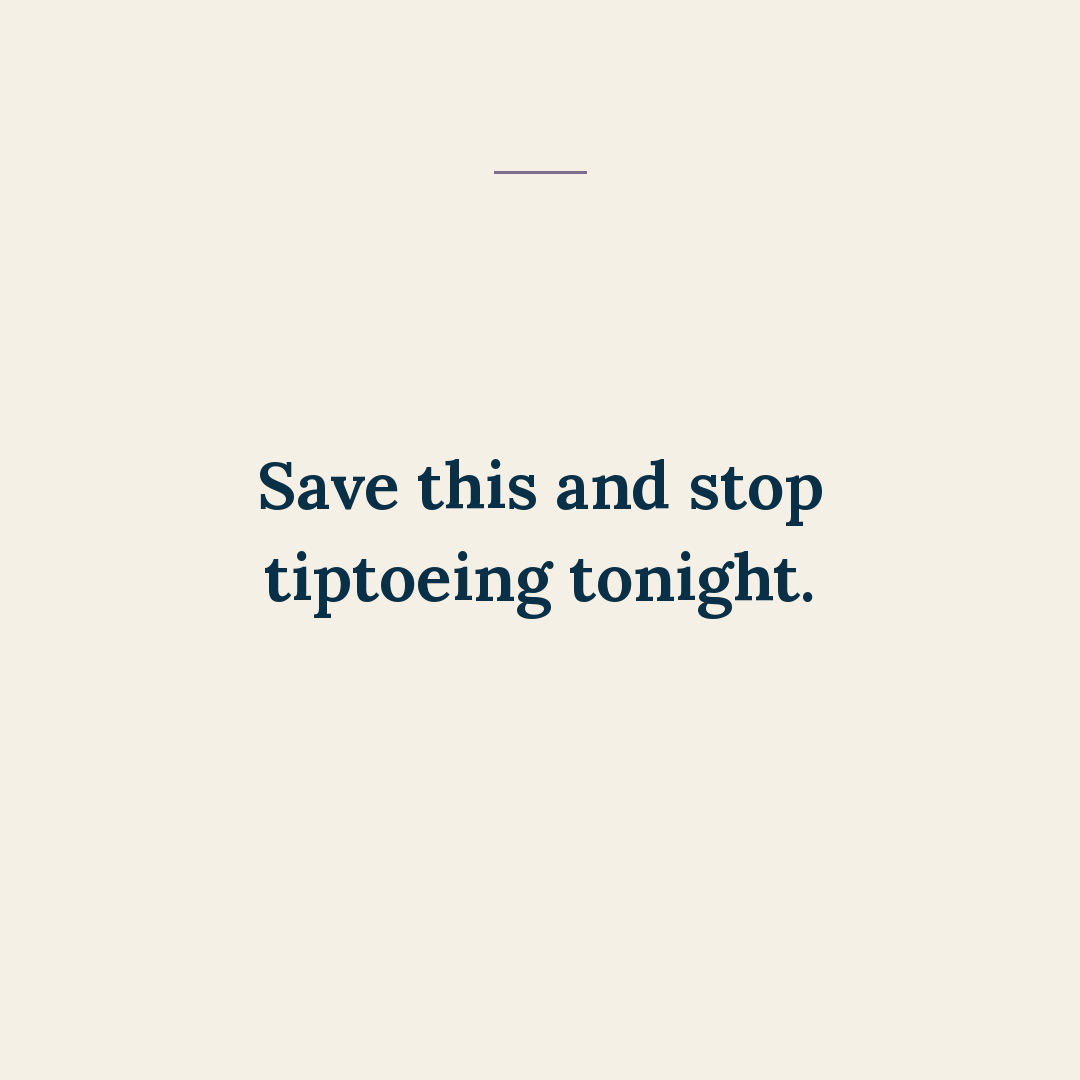
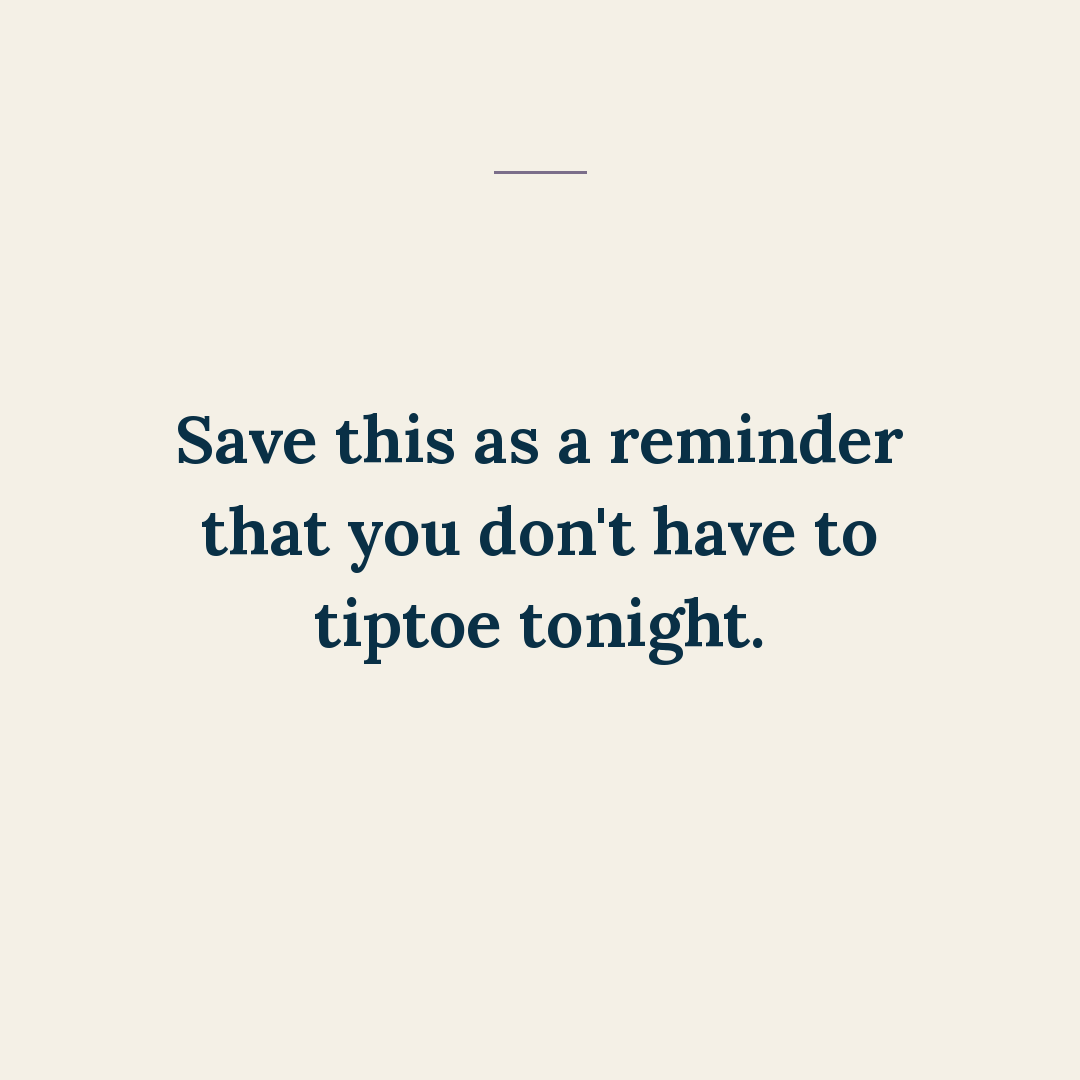
Add 59-dont-have-to-whisper (59 - Dont Have To Whisper)

Changed region(s): [[0.1528, 0.3667, 0.825, 0.6111]]

diff --git a/posts/59-dont-have-to-whisper/slides.md b/posts/59-dont-have-to-whisper/slides.md
@@ -13,7 +13,9 @@ You don't have to whisper around a sleeping newborn…
 05  A predictable "regular life" soundscape can become part of their cue
 
 ## Closer (save)
-Save this and stop tiptoeing tonight.
+Save this as a reminder that you don't have to tiptoe tonight.
+
+REVISED 2026-08-16 per Ben's review (closer wording only).
 
 Render with render_cover / render_items_for_post / render_follow (render_save alias), weight 650, bg BG_CREAM.
 Claims hedged with can throughout.
